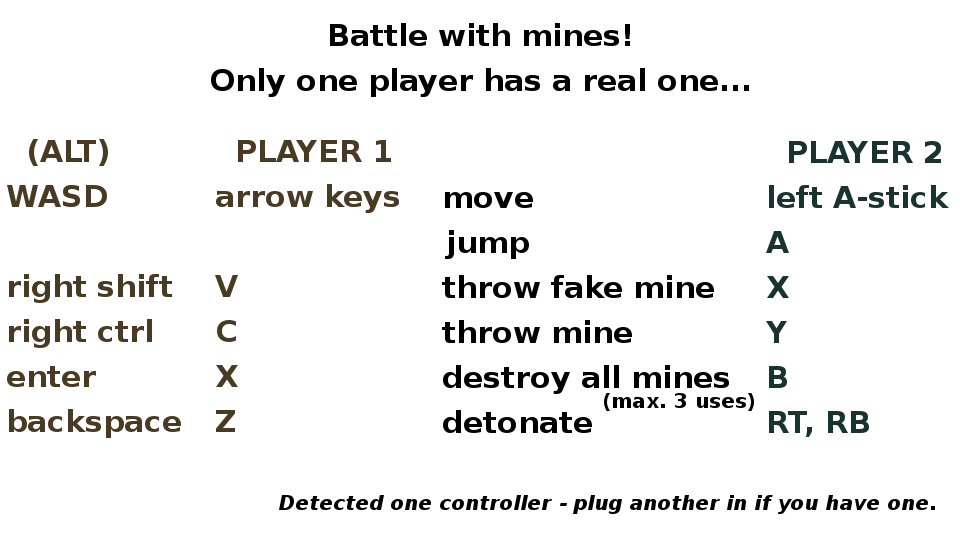
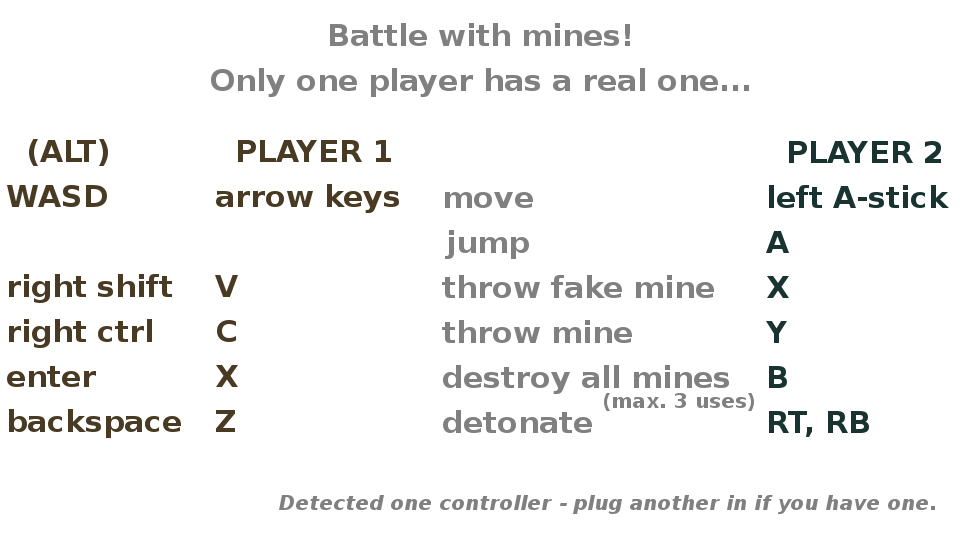
bigger window, restyle intro screen, remove arena

diff --git a/game/level.py b/game/level.py
@@ -1,13 +1,13 @@
-from math import ceil
 import random
 
 import pygame as pg
 from pygame import Rect
-from .engine import conf, gfx
+from .engine import conf
+from .engine.gfx import Graphic
 from .engine.game import World
 
 from .player import Player, Lasers
-from .util import Particles
+from .util import Particles, tile_graphic
 
 
 class Intro (World):
@@ -19,10 +19,18 @@ class Intro (World):
             img = '1pad'
         else:
             img = '2pads'
+
+        text = Graphic('intro-{0}.png'.format(img))
+        gm_r = Rect((0, 0), self.graphics.size)
+        frame = gm_r.inflate(*(-2 * w for w in conf.INTRO_FRAME_WIDTH))
         self.graphics.add(
-            gfx.Colour('fff', self.graphics.orig_size, layer=1),
-            gfx.Graphic('intro-{0}.png'.format(img))
+            tile_graphic(Graphic('solid.png'), gm_r, 2),
+            Graphic('background.png', layer=1)
+                .resize(*self.graphics.orig_size)
+                .transform('crop', frame, after='resize'),
+            text
         )
+        text.align()
 
         for i in xrange(n_pads):
             pg.joystick.Joystick(i).init()
@@ -47,17 +55,14 @@ class Level (World):
                             conf.LEVELS[name]['spawn'][i])
 
         layers = conf.LAYERS
-        gm.add(gfx.Graphic('background.png', layer=layers['bg']))
-        g = gfx.Graphic('solid.png')
+        gm.add(
+            Graphic('background.png', layer=layers['bg']).resize(*gm.orig_size)
+        )
+        g = Graphic('solid.png')
         for r in conf.LEVELS[name]['rects']:
             r = Rect(r)
             self.rects.append(r)
-            w = int(ceil(float(r.w) / g.w))
-            h = int(ceil(float(r.h) / g.h))
-            gm.add(gfx.Tilemap(
-                g.size, (lambda x, y: 0, w, h), {0: g}, r.topleft,
-                layers['rect']
-            ).crop(((0, 0), r.size)))
+            gm.add(tile_graphic(g, r, layers['rect']))
 
     def load_evts (self):
         eh = self.evthandler

diff --git a/game/conf.py b/game/conf.py
@@ -8,7 +8,7 @@ class Conf (object):
     IDENT = 'boom'
     WINDOW_TITLE = 'boom'
     WINDOW_ICON = os.path.join(conf.IMG_DIR, 'icon.png')
-    RES_W = (960, 540)
+    RES_W = (1200, 600)
 
     # remove fullscreen keys since they disable KEYDOWN on enter without alt
     GAME_EVENTS = '''
@@ -49,20 +49,11 @@ button _game_fullscreen DOWN
     LEVELS = {
         'main': {
             'spawn': [
-                (20, 340),
-                (800, 360)
+                (40, 400),
+                (1140, 400)
             ],
             'rects': [
-                (0, 480, 960, 60), # ground
-                (0, 380, 80, 100), # left bottom
-                (220, 380, 150, 40), # centre bottom
-                (370, 330, 200, 150),
-                (570, 450, 170, 30), # right bottom
-                (740, 400, 130, 80),
-                (130, 230, 350, 40), # left top
-                (130, 80, 40, 150),
-                (440, 190, 40, 40),
-                (620, 130, 340, 100), # right top
+                (0, 440, 1200, 160)
             ]
         }
     }
@@ -132,6 +123,7 @@ button _game_fullscreen DOWN
         }
     }
 
+    INTRO_FRAME_WIDTH = (80, 30)
     PARTICLES = {
         # colour
         # amount: total area

diff --git a/game/util.py b/game/util.py
@@ -1,9 +1,17 @@
-from math import pi, cos, sin
+from math import pi, cos, sin, ceil
 import random
 
 from .engine import conf
-from .engine.gfx import Graphic
+from .engine.gfx import Graphic, Tilemap
 from .engine.util import randsgn, ir, blank_sfc, normalise_colour
+
+
+def tile_graphic (g, r, layer):
+    w = int(ceil(float(r.w) / g.w))
+    h = int(ceil(float(r.h) / g.h))
+    return Tilemap(
+        g.size, (lambda x, y: 0, w, h), {0: g}, r.topleft, layer
+    ).crop(((0, 0), r.size))
 
 
 def rand (arg):
